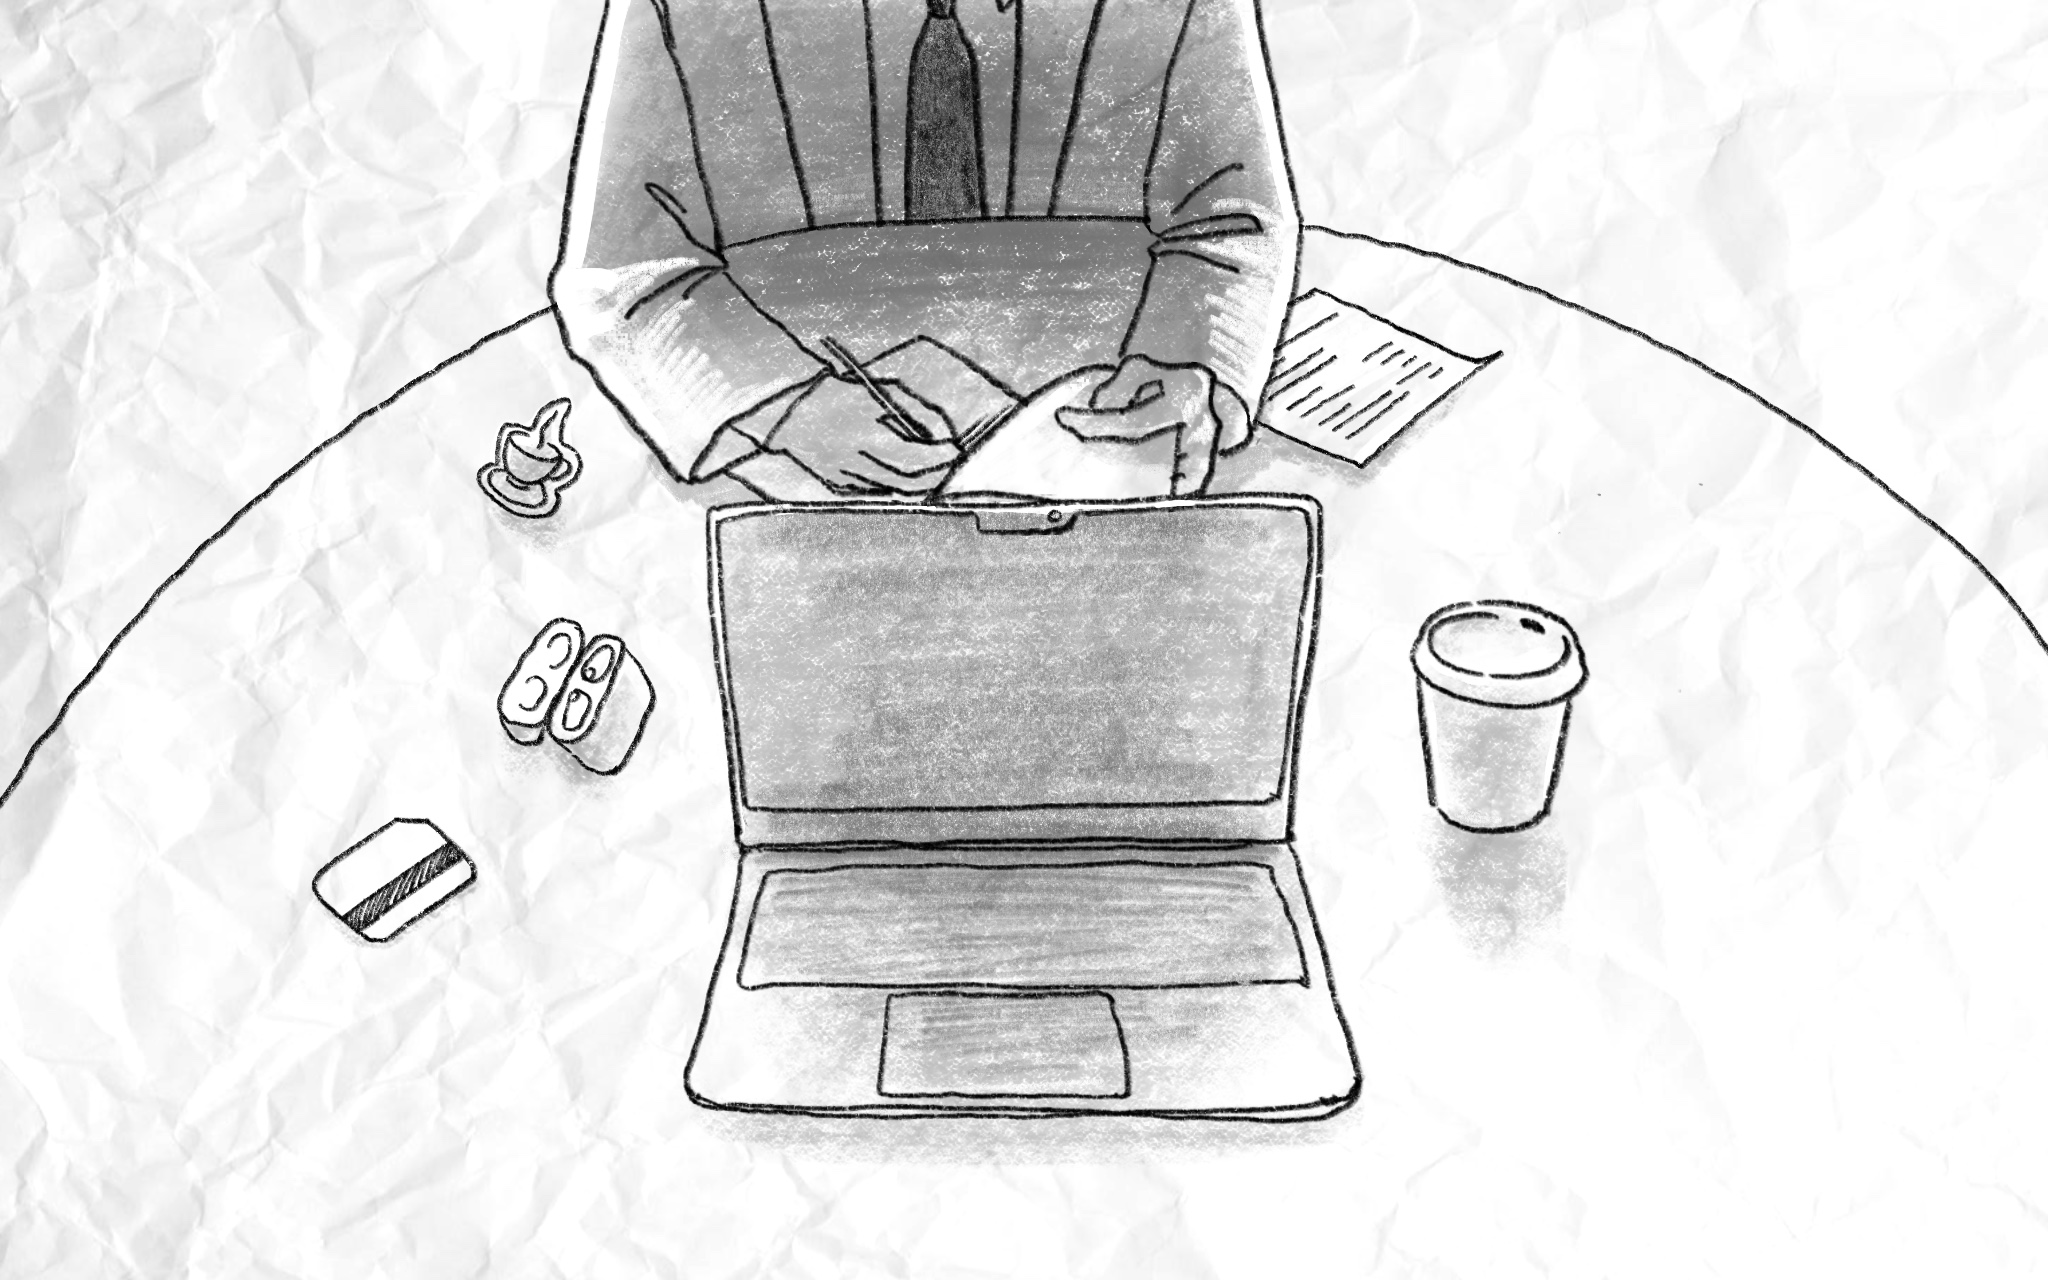
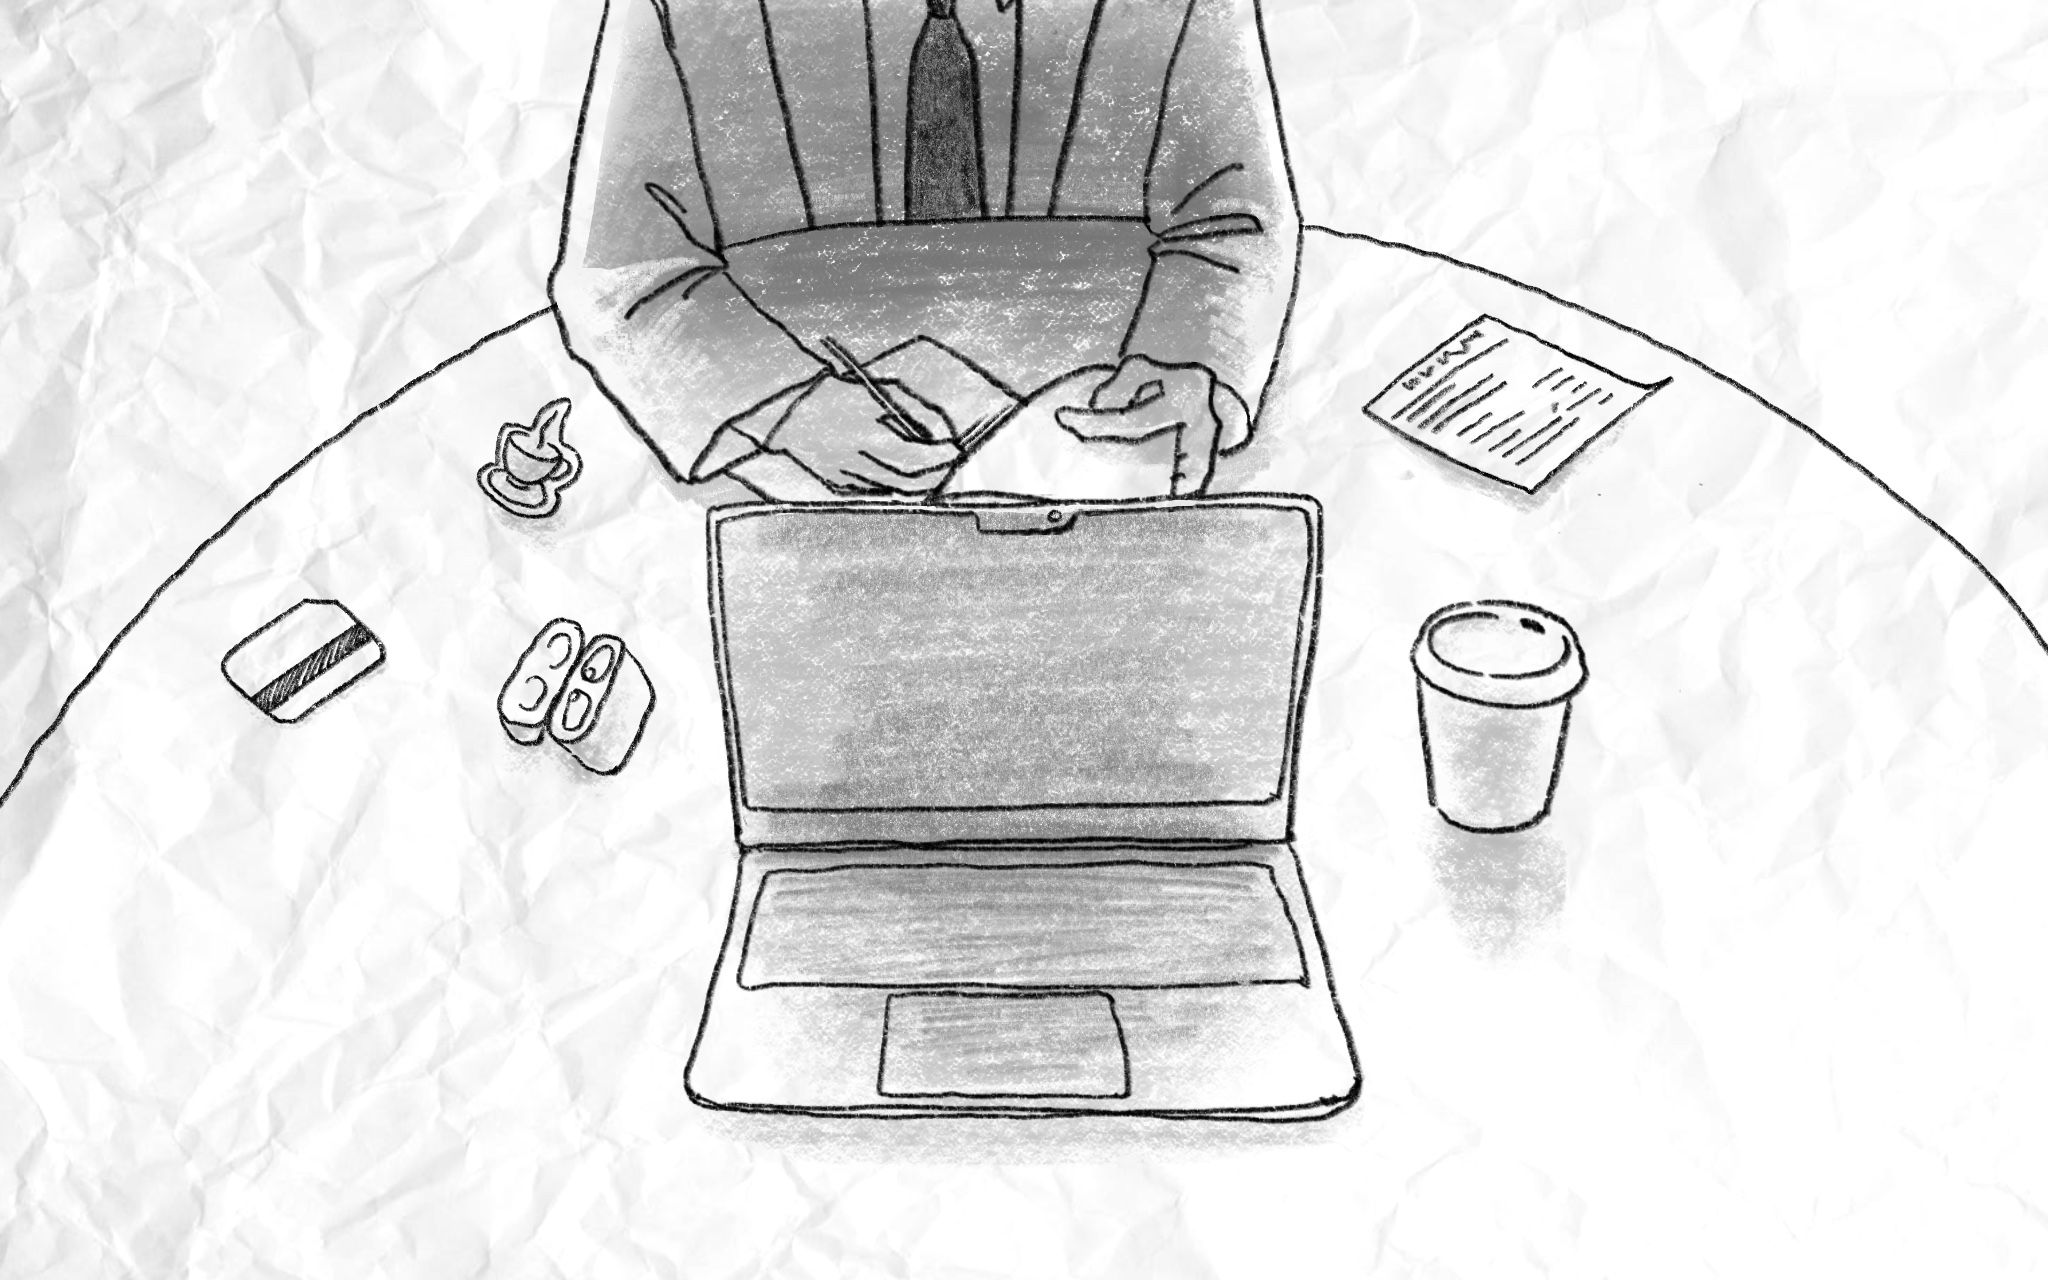
me final update

diff --git a/style.css b/style.css
@@ -628,41 +628,30 @@ body::before {
 
 
 /* dev panel â€” bottom left, for testing without hardware */
-.dev-panel {
-    position: fixed;
-    bottom: 1.2em;
-    left: 1.2em;
-    z-index: 800;
-    display: flex;
-    flex-direction: column;
-    gap: 0.4em;
+.dev-obj-visual {
+    position: absolute;
+    top: 0;
+    left: 0;
+    width: 100%;
+    height: 100%;
+    object-fit: cover;
+    object-position: center;
+    pointer-events: none;
+    z-index: 5;
+    transition: filter 0.2s ease;
 }
 
-.dev-panel-label {
-    font-size: 0.52em;
-    letter-spacing: 0.4em;
-    color: #2a1a10;
-    text-transform: uppercase;
-    margin-bottom: 0.2em;
+.dev-obj-visual.glow {
+    filter: drop-shadow(0 0 12px rgba(255, 220, 120, 0.9));
 }
 
-.dev-panel button {
-    padding: 0.4em 0.9em;
-    background: rgba(10, 8, 6, 0.7);
-    border: 1px solid rgba(200, 169, 110, 0.2);
-    color: #4a3a28;
-    font-family: 'Handwrite', 'Georgia', serif;
-    font-size: 0.62em;
-    letter-spacing: 0.15em;
+.dev-obj-hit {
+    position: absolute;
+    background: transparent;
+    border: none;
     cursor: pointer;
-    text-align: left;
-    transition: all 0.2s;
-}
-
-.dev-panel button:hover {
-    border-color: rgba(200, 169, 110, 0.55);
-    color: #c8a96e;
-    background: rgba(200, 169, 110, 0.06);
+    z-index: 15;
+    outline: none;
 }
 
 /* â”€â”€ MEMORY OVERLAY â”€â”€ */
@@ -1331,17 +1320,3 @@ body::before {
     pointer-events: all;
 }
 
-.scan-flash {
-    position: fixed;
-    top: 0; left: 0;
-    width: 100%; height: 100%;
-    background: rgba(200, 169, 110, 0.1);
-    opacity: 0;
-    pointer-events: none;
-    z-index: 850;
-    transition: opacity 0.07s;
-}
-
-.scan-flash.flash {
-    opacity: 1;
-}

diff --git a/server.js b/server.js
@@ -5,9 +5,8 @@ const app = express();
 const http = require('http').Server(app);
 const io = require('socket.io')(http);
 
-// const port = new SerialPort({ path: '/dev/cu.usbmodem1401', baudRate: 9600 });
-const port = new SerialPort({ path: '/dev/cu.usbmodem1101', baudRate: 9600 });
-const parser = port.pipe(new ReadlineParser({ delimiter: '\r\n' }));
+const SERIAL_PATH = '/dev/cu.usbmodem1101';
+const BAUD_RATE = 9600;
 
 const DATABASE = {
     "53C19186520001": { name: "object 1", info: "111111。", color: "#ff4d4d" },
@@ -18,19 +17,38 @@ const DATABASE = {
     "532B6E86520001": { name: "object 6", info: "666666。", color: "#2196f3" }
 };
 
+function connectSerial() {
+    const port = new SerialPort({ path: SERIAL_PATH, baudRate: BAUD_RATE });
+    const parser = port.pipe(new ReadlineParser({ delimiter: '\r\n' }));
+
+    port.on('open', () => console.log('串口已连接'));
+
+    port.on('close', () => {
+        console.log('串口断开，3秒后重连...');
+        setTimeout(connectSerial, 3000);
+    });
+
+    port.on('error', (err) => {
+        console.error('串口错误:', err.message);
+        setTimeout(connectSerial, 3000);
+    });
+
+    parser.on('data', (data) => {
+        const uid = data.trim();
+        console.log("NFC detected:", uid);
+        if (DATABASE[uid]) {
+            io.emit('show_info', { ...DATABASE[uid], uid });
+        }
+    });
+}
+
+connectSerial();
+
 // serve static files (CSS, JS, Scene images, etc.)
 app.use(express.static(__dirname));
 
 app.get('/', (req, res) => {
     res.sendFile(__dirname + '/index.html');
-});
-
-parser.on('data', (data) => {
-    const uid = data.trim();
-    console.log("NFC detected:", uid);
-    if (DATABASE[uid]) {
-        io.emit('show_info', { ...DATABASE[uid], uid });
-    }
 });
 
 http.listen(3000, () => {

diff --git a/index.html b/index.html
@@ -13,7 +13,6 @@
 <body>
 
     <div class="fade-overlay" id="fadeOverlay"></div>
-    <div class="scan-flash" id="scanFlash"></div>
 
     <!-- MEMORY OVERLAY — triggered by NFC scan -->
     <div class="memory-overlay hidden" id="memoryOverlay">
@@ -29,14 +28,6 @@
     <!-- ══════════════════════════════════════════════
          DEV PANEL — simulate NFC scans without hardware
     ══════════════════════════════════════════════ -->
-    <!--<div class="dev-panel" id="devPanel">
-        <div class="dev-panel-label">DEV · Scan Object</div>
-        <button onclick="devScan('53C19186520001')">🚇 metro card</button>
-        <button onclick="devScan('53AC8C86520001')">📛 barista pin</button>
-        <button onclick="devScan('53B28486520001')">☕ coffee cup</button>
-        <button onclick="devScan('53A36287520001')">🧾 Rent Paper</button>
-        <button onclick="devScan('53C97A86520001')">🎵 AirPod</button>
-    </div> -->
 
     <!--01 · INTRO — Title card-->
     <div class="scene active" id="scene-intro">
@@ -75,6 +66,17 @@
     <!--03 · WHITE ROOM — Main investigation-->
     <div class="scene" id="scene-investigation">
         <div class="scene-bg"></div>
+        <img id="obj-badge-img"  src="asset/obj-badge.PNG"  class="dev-obj-visual">
+        <img id="obj-metro-img"  src="asset/obj-metro.PNG"  class="dev-obj-visual">
+        <img id="obj-cup-img"    src="asset/obj-cup.PNG"    class="dev-obj-visual">
+        <img id="obj-rent-img"   src="asset/obj-rent.PNG"   class="dev-obj-visual">
+        <img id="obj-airpod-img" src="asset/obj-airpod.PNG" class="dev-obj-visual">
+        <!-- hitboxes -->
+        <button class="dev-obj-hit" onclick="devScan('53AC8C86520001')" onmouseenter="document.getElementById('obj-badge-img').classList.add('glow')" onmouseleave="document.getElementById('obj-badge-img').classList.remove('glow')" style="left:23%;top:28%;width:7%;height:12%"></button>
+        <button class="dev-obj-hit" onclick="devScan('53C19186520001')" onmouseenter="document.getElementById('obj-metro-img').classList.add('glow')" onmouseleave="document.getElementById('obj-metro-img').classList.remove('glow')" style="left:10%;top:46%;width:9%;height:10%"></button>
+        <button class="dev-obj-hit" onclick="devScan('53C97A86520001')" onmouseenter="document.getElementById('obj-airpod-img').classList.add('glow')" onmouseleave="document.getElementById('obj-airpod-img').classList.remove('glow')" style="left:24%;top:47%;width:9%;height:15%"></button>
+        <button class="dev-obj-hit" onclick="devScan('53A36287520001')" onmouseenter="document.getElementById('obj-rent-img').classList.add('glow')" onmouseleave="document.getElementById('obj-rent-img').classList.remove('glow')" style="left:67%;top:20%;width:14%;height:21%"></button>
+        <button class="dev-obj-hit" onclick="devScan('53B28486520001')" onmouseenter="document.getElementById('obj-cup-img').classList.add('glow')" onmouseleave="document.getElementById('obj-cup-img').classList.remove('glow')" style="left:69%;top:46%;width:8%;height:19%"></button>
         <div class="investigation-ui">
 
             <div class="top-bar">

diff --git a/game.js b/game.js
@@ -837,6 +837,7 @@ function init() {
   renderIntroductionPage();
   renderCaseFile();
 
+
   document.addEventListener('mousedown', (event) => {
     if (event.target.closest('button')) {
       clickSfx.currentTime = 0; 